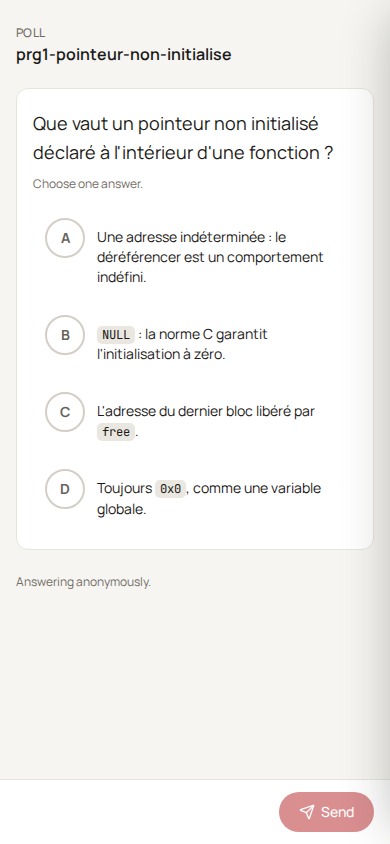
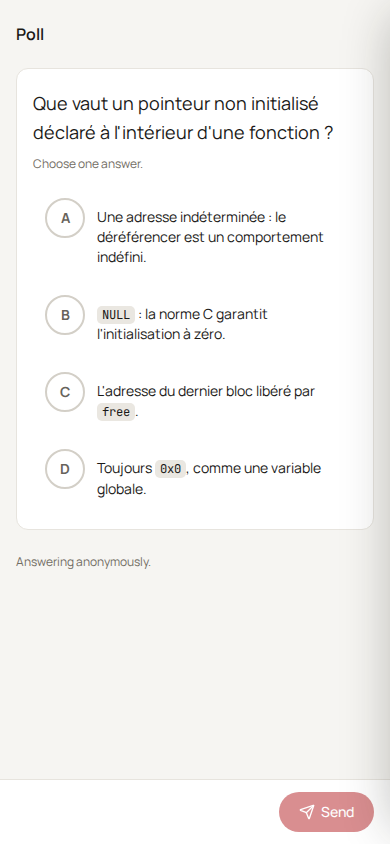
fix(poll): the phone never reads the question's internal name
A poll's title is its question's internal name, and the public view sent it
to every phone, around toStudent (invariant 4). PollPublicView no longer
carries a title; the phone and its sign-in gate read "Poll" instead.

Closes #305

diff --git a/apps/web/src/poll/PollJoin.tsx b/apps/web/src/poll/PollJoin.tsx
@@ -201,7 +201,7 @@ export function PollJoin({
   // --- The gate: this poll wants to know who is answering ------------------
 
   if (view.me.loginRequired)
-    return <LoginGate code={code} title={view.title} />;
+    return <LoginGate code={code} />;
 
   const ended = view.state === "ended";
   // What the teacher shows — the key, the votes — never closes the vote:
@@ -225,12 +225,9 @@ export function PollJoin({
   return (
     <div className="flex min-h-dvh flex-col bg-canvas">
       <main className="mx-auto w-full max-w-140 flex-1 px-4 py-6 sm:px-6">
-        <p className="text-[12px] font-medium uppercase tracking-wide text-fg-faint">
-          {t("join.eyebrow")}
-        </p>
-        <h1 className="mt-0.5 text-base font-semibold leading-tight">
-          {view.title}
-        </h1>
+        {/* "Poll", never the evaluation's title: that is the question's
+            internal name, which a student never reads (invariant 4, #305). */}
+        <h1 className="text-base font-semibold leading-tight">{t("join.eyebrow")}</h1>
 
         {ended ? (
           <div className="mt-5">
@@ -332,17 +329,13 @@ export function PollJoin({
  * it exactly as `Landing` offers it — the two are the same decision, so they
  * read the same way, and both carry a `next` back to this very code.
  */
-function LoginGate({ code, title }: { code: string; title: string }) {
+function LoginGate({ code }: { code: string }) {
   const t = useT();
   return (
     <SignInGate
       next={`/p/${code}`}
-      header={
-        <p className="text-[12px] font-medium uppercase tracking-wide text-fg-faint">
-          {t("join.eyebrow")}
-        </p>
-      }
-      title={title}
+      header={null}
+      title={t("join.eyebrow")}
       body={t("join.login.body")}
       action={t("join.login.action")}
     />

diff --git a/packages/contracts/src/poll.ts b/packages/contracts/src/poll.ts
@@ -263,11 +263,11 @@ export type PollTeacherView = z.infer<typeof PollTeacherView>;
  * `solution` is null while the key is not revealed; `me` says where THIS
  * browser stands. Neither switch closes the vote: while `state` is
  * `running`, the phone keeps its answer control (ADR-014, addendum
- * 2026-09-29).
+ * 2026-09-29). It carries no title: a poll's title is its question's
+ * internal name, which never reaches a student (invariant 4, #305).
  */
 export const PollPublicView = z.object({
   code: z.string(),
-  title: z.string(),
   state: z.enum(["running", "ended"]),
   settings: PollSettings,
   question: z.object({

diff --git a/apps/api/src/modules/poll/poll.db.test.ts b/apps/api/src/modules/poll/poll.db.test.ts
@@ -381,6 +381,10 @@ describe("the public page (F-AUTH-05)", () => {
     for (const forbidden of FORBIDDEN_STUDENT_KEYS) {
       expect(serialized, `public view leaked "${forbidden}"`).not.toContain(`"${forbidden}"`);
     }
+    // Nor by another road: the poll's title is the question's internal name,
+    // and the public view carries no title at all (#305).
+    expect(body).not.toHaveProperty("title");
+    expect(view.body).not.toContain("Capitale VD");
   });
 
   it("is a 404 on an unknown code, exactly like a missing one", async () => {

diff --git a/apps/web/src/mock/poll.ts b/apps/web/src/mock/poll.ts
@@ -311,7 +311,6 @@ function pollPublicView(poll: MockPoll): PollPublicView {
   const loginRequired = !poll.anonymous && me === null;
   return {
     code: poll.code,
-    title: poll.title,
     state: poll.state,
     settings: { anonymous: poll.anonymous, revealed, votes: votesOn(poll) },
     question: { type: poll.type, student: poll.student },

diff --git a/apps/web/src/poll/PollJoin.test.tsx b/apps/web/src/poll/PollJoin.test.tsx
@@ -38,7 +38,6 @@ const mcqStudent = {
 function view(patch: Partial<PollPublicView> = {}): PollPublicView {
   return {
     code: CODE,
-    title: "Échauffement",
     state: "running",
     settings: { anonymous: true, revealed: false, votes: false },
     question: { type: "mcq", student: mcqStudent },

diff --git a/apps/api/src/modules/poll/service.ts b/apps/api/src/modules/poll/service.ts
@@ -731,7 +731,6 @@ export async function publicView(
         )[0]?.payload ?? null);
   return {
     code: evaluation.accessCode ?? "",
-    title: evaluation.title,
     state,
     settings,
     question: { type: item.question.type as PollType, student: studentOf(item) },

diff --git a/docs/development/screenshots.md b/docs/development/screenshots.md
@@ -144,11 +144,11 @@ their ids differ from the other rows.
 | `results-questions` | teacher | `/evaluations/606c9f70-0a92-4ebd-8958-0ade5a342da7/results?tab=questions` | graded | Nothing: the page as it loads. | 1440×900, full page |
 | `results-release-confirm` | teacher | `/evaluations/606c9f70-0a92-4ebd-8958-0ade5a342da7/results` | graded | Clicked “Publish results”. | 1440×900 |
 | `poll-launcher` | teacher | `/polls` | running | Nothing: the page as it loads. | 1440×900 |
-| `poll-projection` | teacher | `/evaluations/5f42ee0c-fc4c-4512-8993-ca5724bbd4c2/poll` | poll-open | Nothing: the page as it loads. | 1440×900 |
-| `join-mcq-phone` | guest | `/p/74M4WC` | poll-open | Nothing: the page as it loads. | 390×844 |
-| `poll-revealed` | teacher | `/evaluations/5f42ee0c-fc4c-4512-8993-ca5724bbd4c2/poll` | poll-revealed | Nothing: the page as it loads. | 1440×900 |
-| `join-revealed-phone` | guest | `/p/74M4WC` | poll-revealed | Nothing: the page as it loads. | 390×844 |
-| `poll-ended` | teacher | `/evaluations/5f42ee0c-fc4c-4512-8993-ca5724bbd4c2/poll` | poll-ended | Nothing: the page as it loads. | 1440×900 |
+| `poll-projection` | teacher | `/evaluations/36e15847-ce4d-47c8-b577-39017a776034/poll` | poll-open | Nothing: the page as it loads. | 1440×900 |
+| `join-mcq-phone` | guest | `/p/VSLAQA` | poll-open | Nothing: the page as it loads. | 390×844 |
+| `poll-revealed` | teacher | `/evaluations/36e15847-ce4d-47c8-b577-39017a776034/poll` | poll-revealed | Nothing: the page as it loads. | 1440×900 |
+| `join-revealed-phone` | guest | `/p/VSLAQA` | poll-revealed | Nothing: the page as it loads. | 390×844 |
+| `poll-ended` | teacher | `/evaluations/36e15847-ce4d-47c8-b577-39017a776034/poll` | poll-ended | Nothing: the page as it loads. | 1440×900 |
 | `notifications` | teacher | `/` | running | Clicked the bell in the header. | 1440×900 |
 | `palette` | teacher | `/` | seeded | Pressed Ctrl+K. | 1440×900 |
 | `palette-query` | teacher | `/` | seeded | Pressed Ctrl+K and typed “grad”. | 1440×900 |
